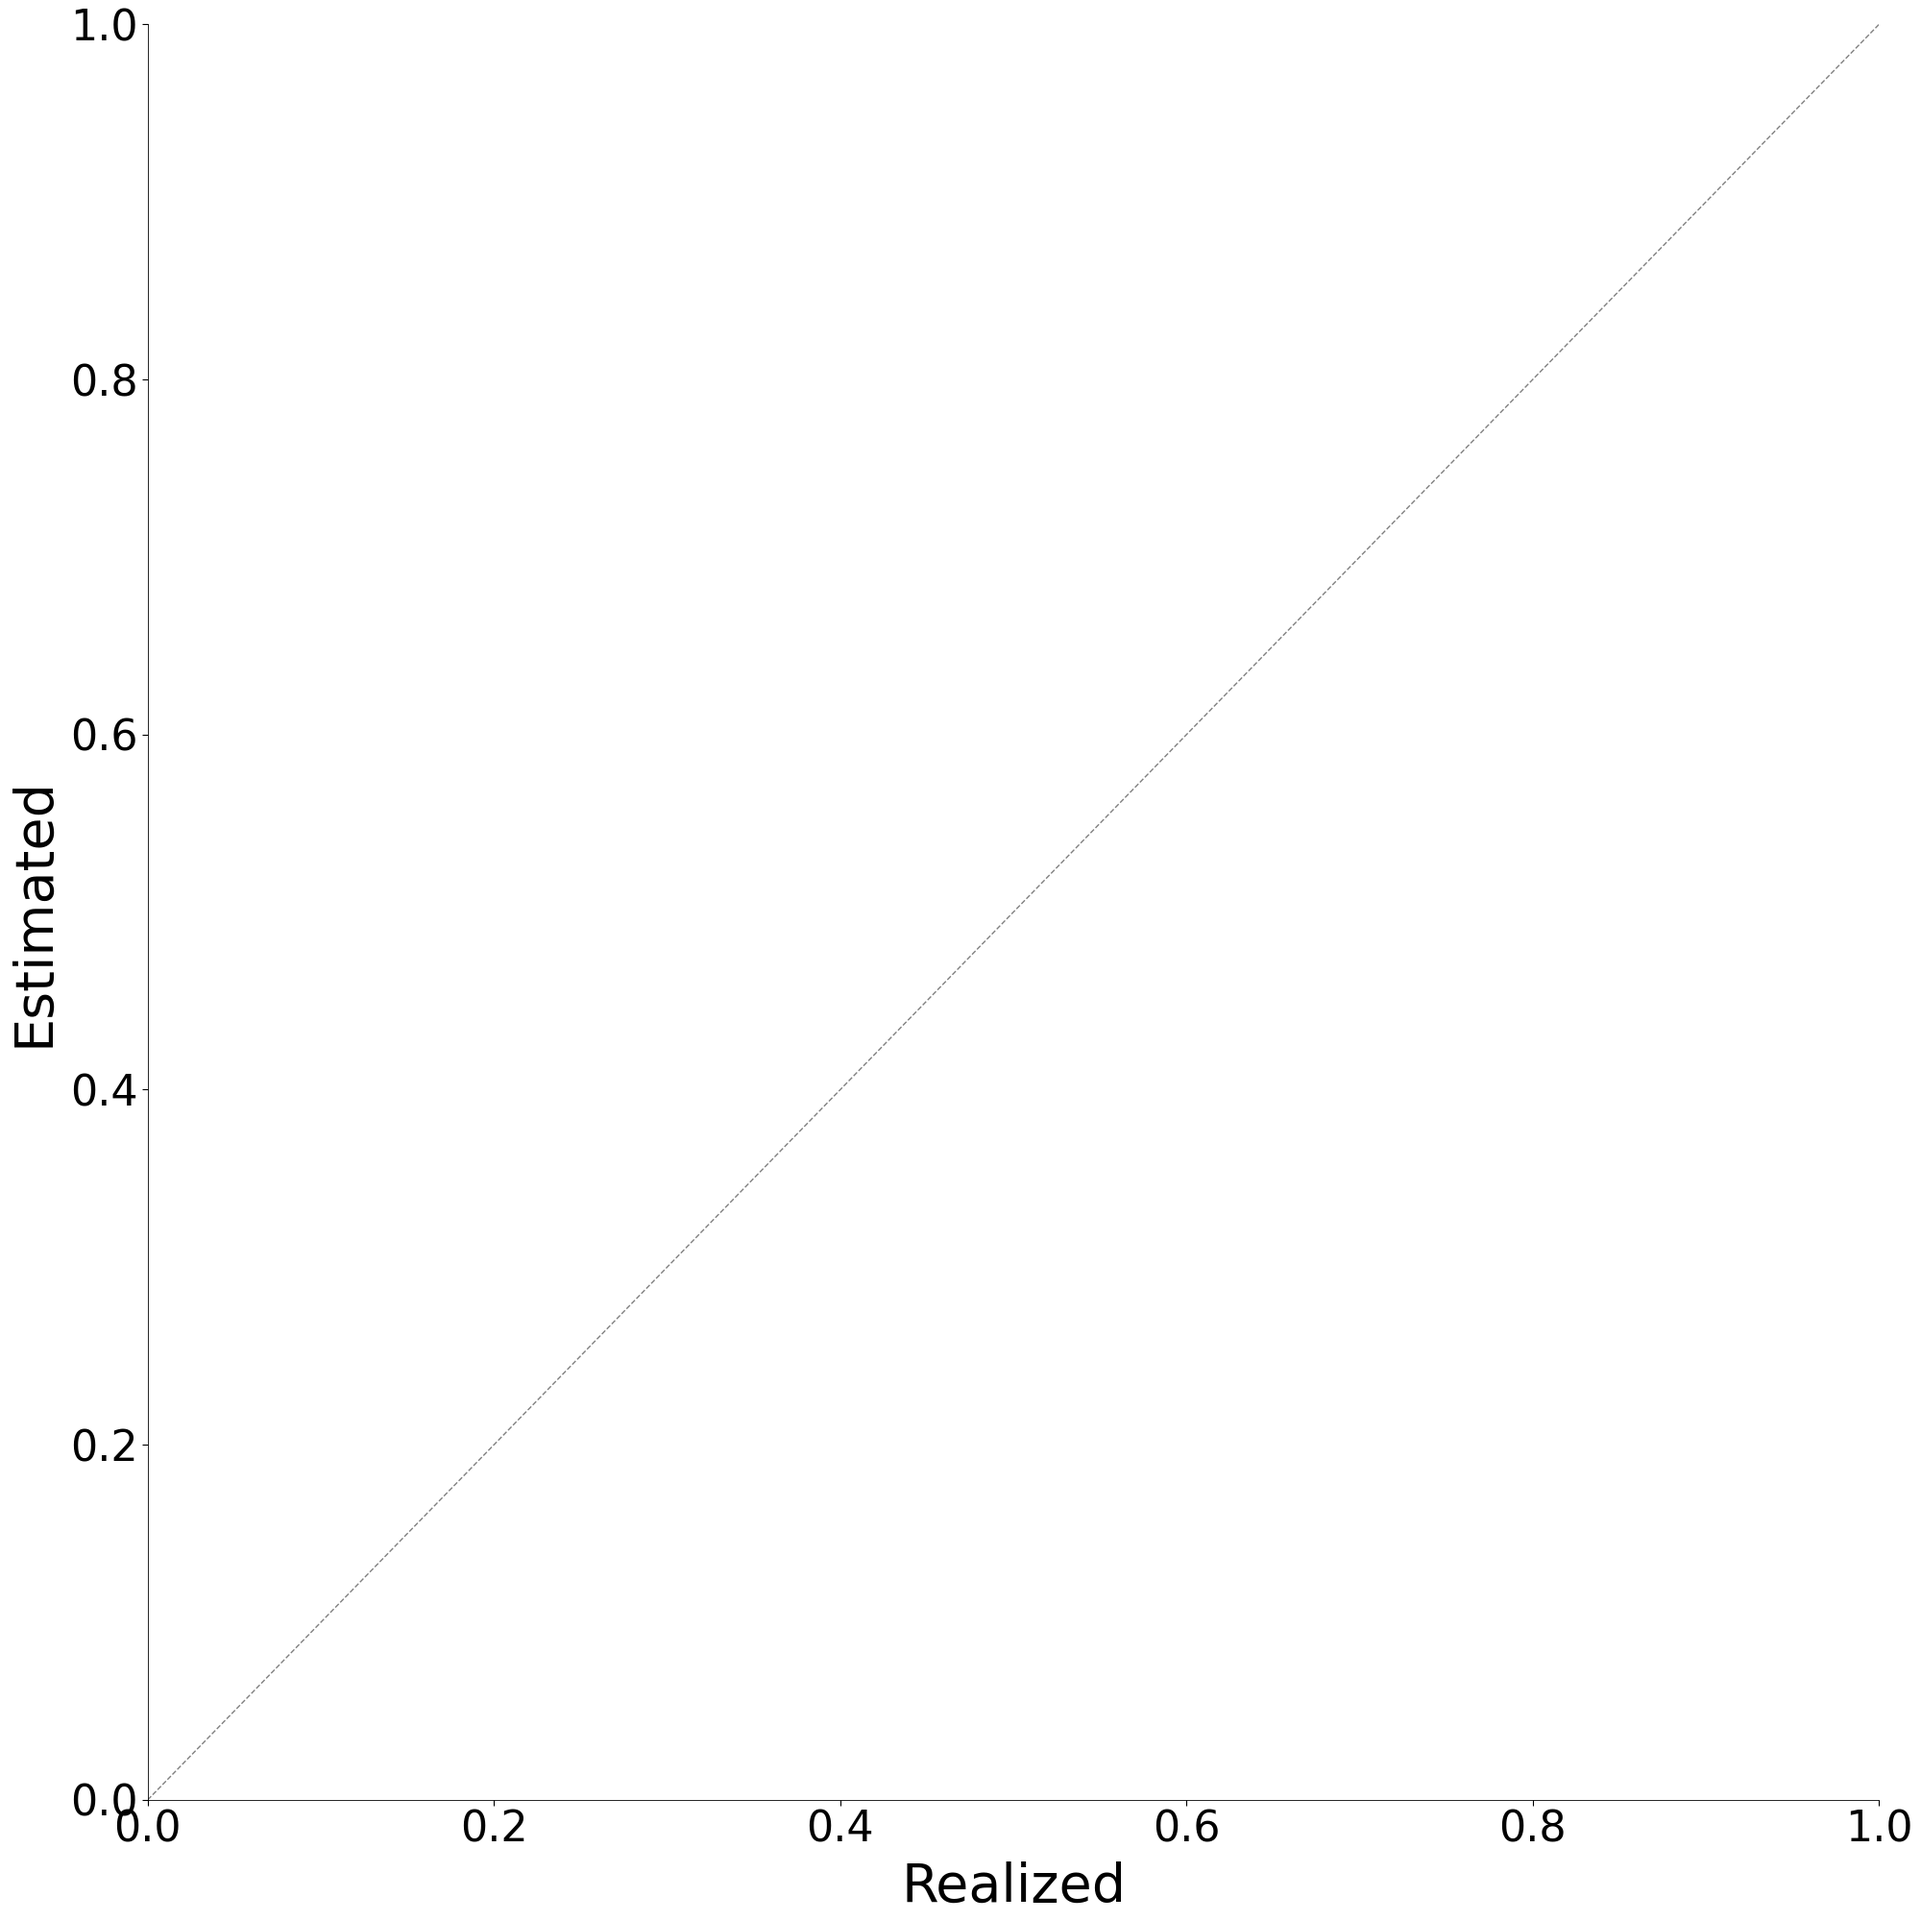
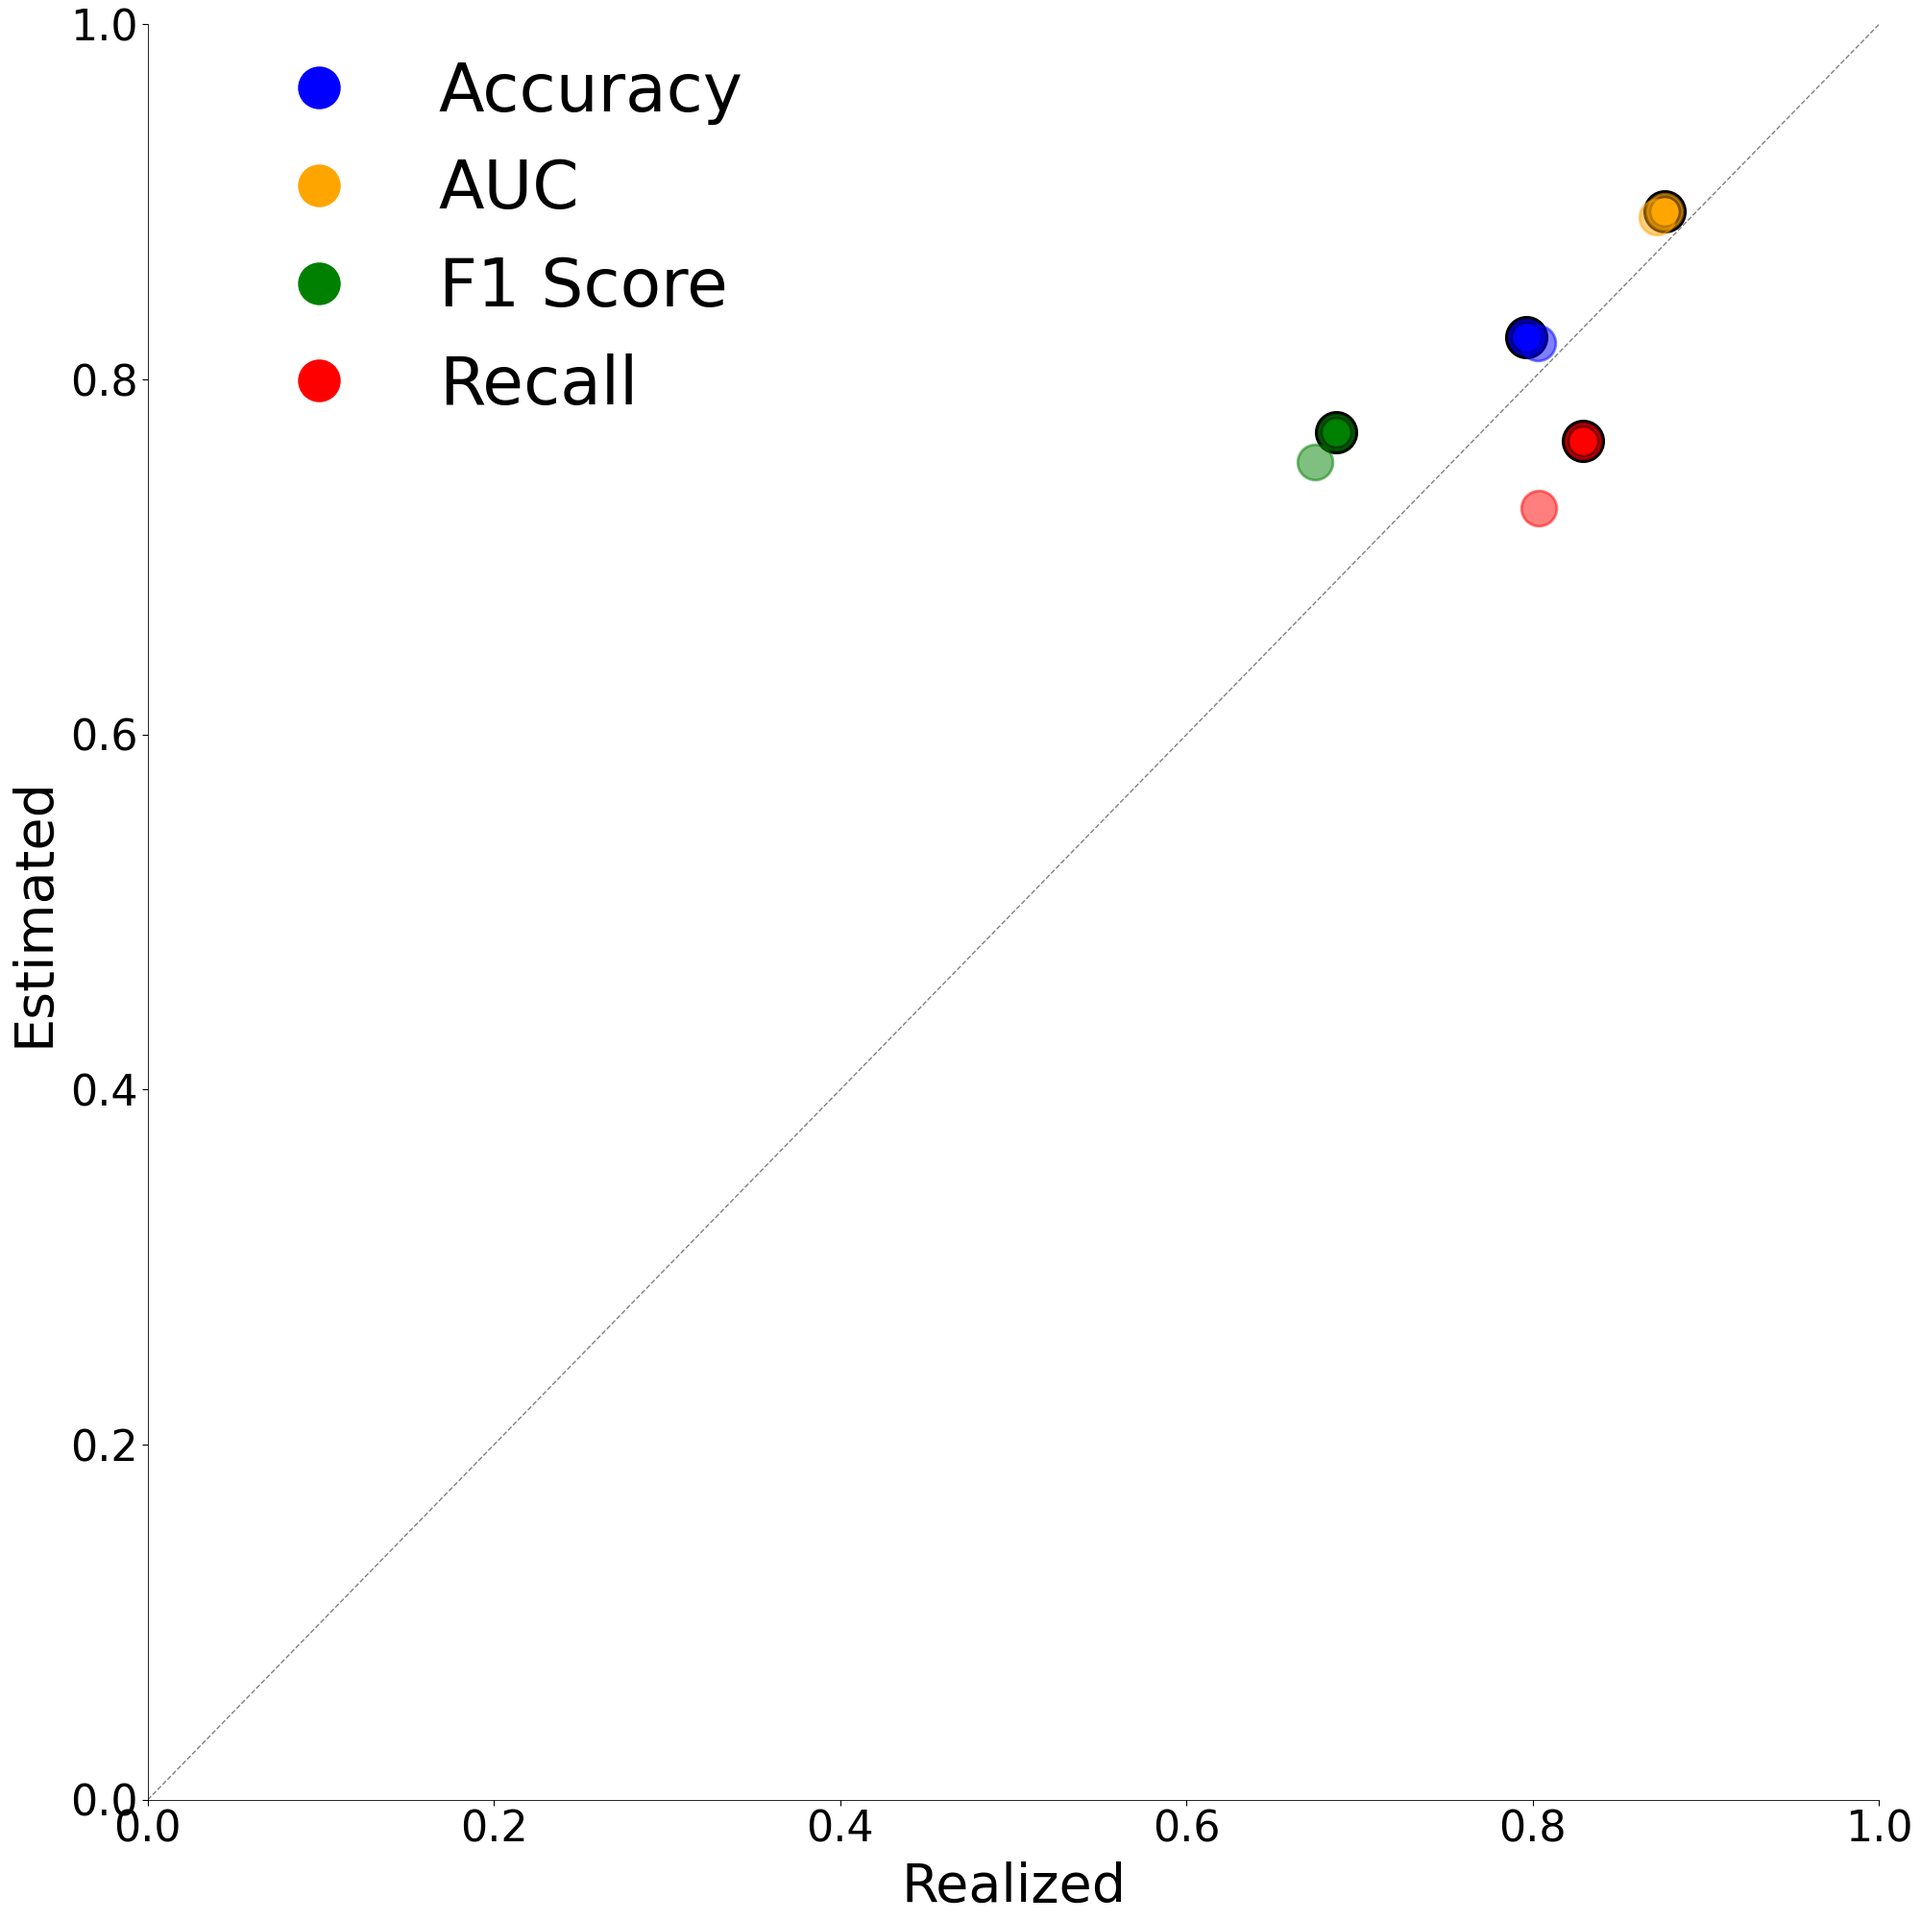
updated version

diff --git a/templates/index.html b/templates/index.html
@@ -2,7 +2,7 @@
 <html lang="en">
 <head>
   <meta charset="UTF-8">
-  <title>Simulation Viewer</title>
+  <title>Performance Prediction Viz</title>
   <style>
     * {
       box-sizing: border-box;

diff --git a/app.py b/app.py
@@ -11,8 +11,8 @@ sys.path.append('/storage/homefs/tf24s166/code/BME_viz/')
 from data.utils import *
 
 accumulated_points = []  # in-memory store
-all_realized_metrics = {'accuracy': [], 'bal_accuracy': [], 'f1_score': [], 'recall': []}
-all_estimated_metrics = {'accuracy': [], 'bal_accuracy': [], 'f1_score': [], 'recall': []}
+all_realized_metrics = {'accuracy': [], 'auc': [], 'f1_score': [], 'recall': []}
+all_estimated_metrics = {'accuracy': [], 'auc': [], 'f1_score': [], 'recall': []}
 app = Flask(__name__)
 
 @app.route("/")
@@ -45,7 +45,7 @@ def run_simulation():
     nih_test_labels = chexpert_pleural_eff_data['ood1_labs']
 
     # Resample cheXpert and NIH such that their ratio matches the slider value
-    TOTAL_SAMPLES = 5000
+    TOTAL_SAMPLES = 1000
     chexpert_samples = int((slider_value / 100) * TOTAL_SAMPLES)
     nih_samples = int(TOTAL_SAMPLES - chexpert_samples)
     
@@ -129,8 +129,8 @@ def run_simulation():
     realized_metrics = calculate_metrics(combined_labels, combined_probs)
     estimated_metrics = calculate_CBPE_metrics(combined_probs)
     
-    realized_metrics = {key: realized_metrics[key] for key in ['accuracy', 'bal_accuracy', 'f1_score', 'recall']}
-    estimated_metrics = {key: estimated_metrics[key] for key in ['accuracy', 'bal_accuracy', 'f1_score', 'recall']}    
+    realized_metrics = {key: realized_metrics[key] for key in ['accuracy', 'auc', 'f1_score', 'recall']}
+    estimated_metrics = {key: estimated_metrics[key] for key in ['accuracy', 'auc', 'f1_score', 'recall']}    
 
     # Store the metrics in the global list
     for metric in realized_metrics.keys():
@@ -157,13 +157,13 @@ def run_simulation():
 
         colors = ['blue', 'orange', 'green', 'red']
         for i, metric in enumerate(realized_metrics.keys()):
-            axs[0].scatter(realized_metrics[metric], estimated_metrics[metric], s=700, c=colors[i], label=f"Realized {metric}")
+            axs[0].scatter(realized_metrics[metric], estimated_metrics[metric], s=700, c=colors[i], label=f"Realized {metric}", edgecolors='k', linewidths=3)
             axs[0].scatter(all_realized_metrics[metric], all_estimated_metrics[metric], s=700, c=colors[i], alpha=0.5)
         handles = [mlines.Line2D([], [], color='blue', marker='o', markersize=15, linestyle='None', label='Realized Accuracy'),
-                    mlines.Line2D([], [], color='orange', marker='o', markersize=15, linestyle='None', label='Realized Bal Accuracy'),
+                    mlines.Line2D([], [], color='orange', marker='o', markersize=15, linestyle='None', label='Realized AUC'),
                     mlines.Line2D([], [], color='green', marker='o', markersize=15, linestyle='None', label='Realized F1 Score'),
                     mlines.Line2D([], [], color='red', marker='o', markersize=15,linestyle='None', label='Realized Recall')]
-        labels = ['Accuracy', 'Bal Accuracy', 'F1 Score', 'Recall']
+        labels = ['Accuracy', 'AUC', 'F1 Score', 'Recall']
         fig.legend(handles, labels, loc="upper left", ncols=1, bbox_to_anchor=(0.1, 1),
             columnspacing=1,  # Adjust the spacing between columns
             handlelength=2,  # Adjust the length of the legend handles
@@ -181,9 +181,9 @@ def reset_accumulated():
     global accumulated_points
     accumulated_points = []
     global all_realized_metrics
-    all_realized_metrics = {'accuracy': [], 'bal_accuracy': [], 'f1_score': [], 'recall': []}
+    all_realized_metrics = {'accuracy': [], 'auc': [], 'f1_score': [], 'recall': []}
     global all_estimated_metrics
-    all_estimated_metrics = {'accuracy': [], 'bal_accuracy': [], 'f1_score': [], 'recall': []}
+    all_estimated_metrics = {'accuracy': [], 'auc': [], 'f1_score': [], 'recall': []}
     # Recreate base plot
     x = np.linspace(0, 10, 100)
     y = x
